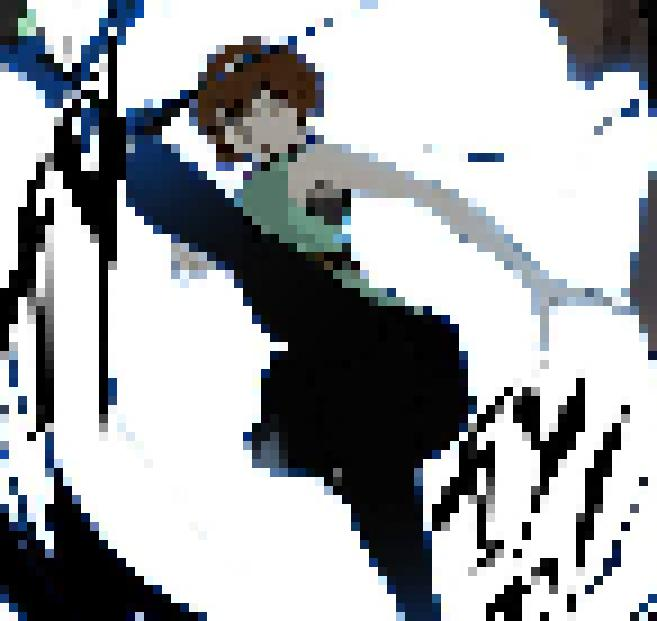
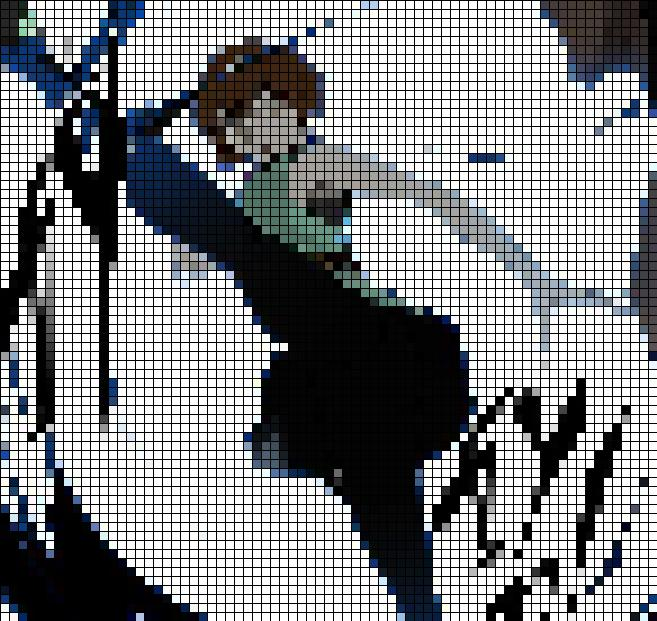
#

Changed region(s): [[0.0, 0.0, 1.0, 1.0], [0.0, 0.9485, 0.0304, 1.0], [0.0609, 0.8567, 0.0913, 0.8873]]

diff --git a/pil_example/pixelate_image/main.py b/pil_example/pixelate_image/main.py
@@ -21,6 +21,9 @@ image = image.resize((image.size[0] // pixel_size, image.size[1] // pixel_size),
 image = image.resize((image.size[0] * pixel_size, image.size[1] * pixel_size), Image.NEAREST)
 pixel = image.load()
 
+image.save('output_without_margin.jpg')
+image.show()
+
 # Draw black margin between pixels
 for i in range(0, image.size[0], pixel_size):
     for j in range(0, image.size[1], pixel_size):
